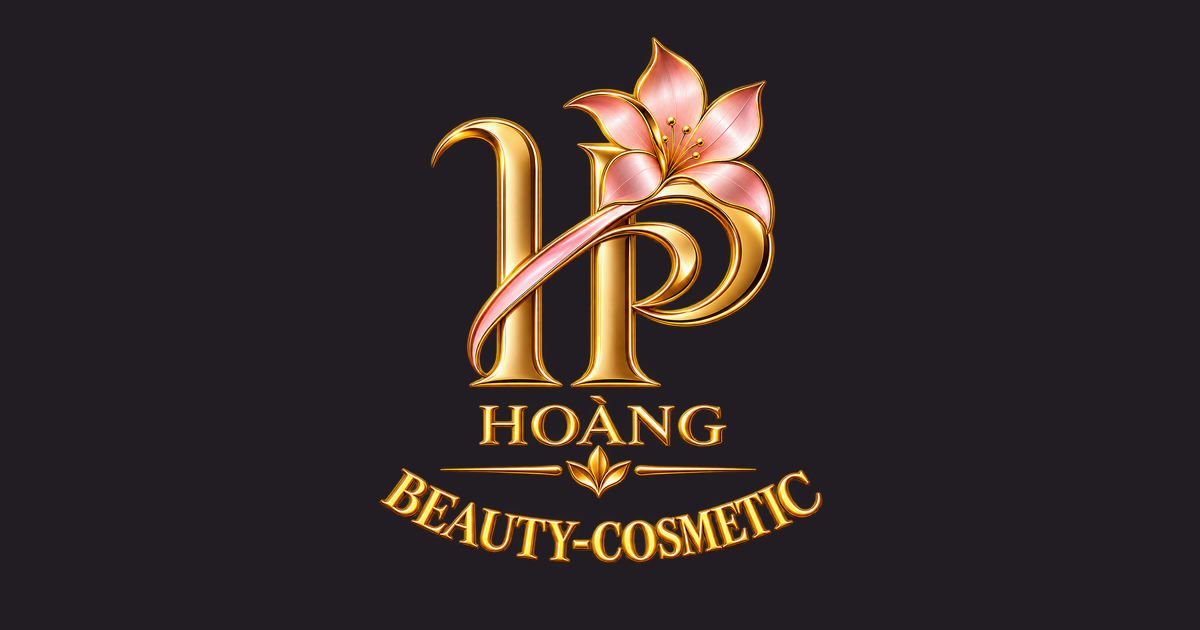
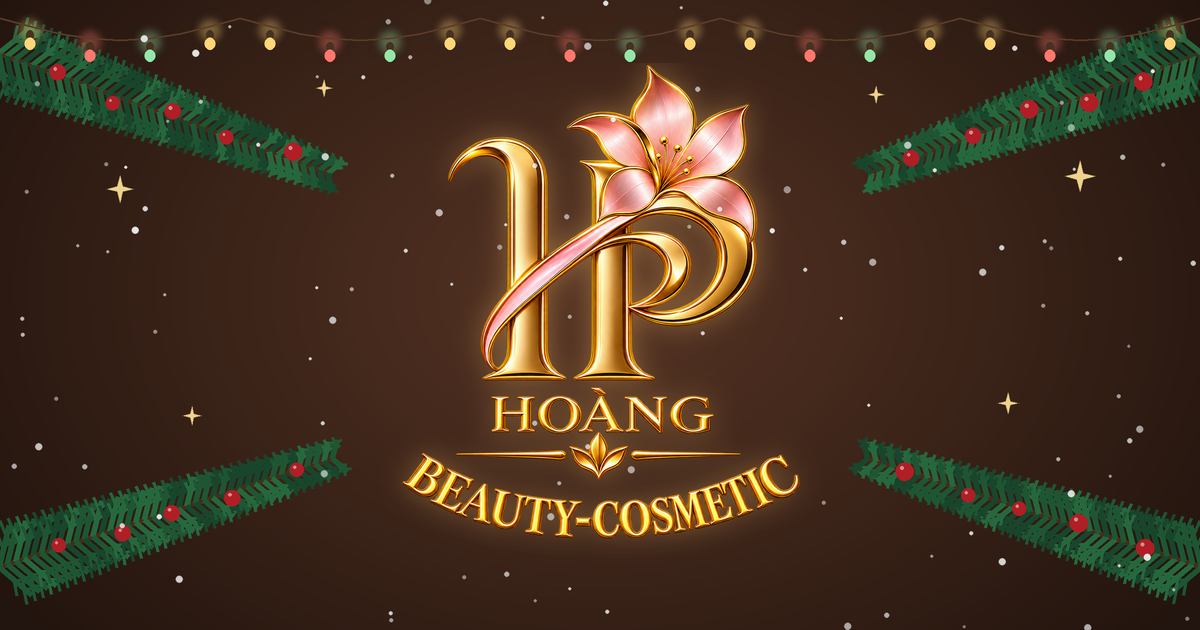
Share card: deep coffee background with Christmas decor

diff --git a/src/app/[locale]/layout.tsx b/src/app/[locale]/layout.tsx
@@ -47,13 +47,13 @@ export async function generateMetadata({ params }: { params: Promise<{ locale: s
       description: t.meta.description,
       siteName: "Beauty Cosmetic Hoàng",
       locale: locale === "en" ? "en_GB" : "de_DE",
-      images: [{ url: "https://beauty-cosmetic-hoang.de/og-image.png?v=3", width: 1200, height: 630, alt: "Beauty Cosmetic Hoàng" }],
+      images: [{ url: "https://beauty-cosmetic-hoang.de/og-image.png?v=4", width: 1200, height: 630, alt: "Beauty Cosmetic Hoàng" }],
     },
     twitter: {
       card: "summary_large_image",
       title: t.meta.title,
       description: t.meta.description,
-      images: ["https://beauty-cosmetic-hoang.de/og-image.png?v=3"],
+      images: ["https://beauty-cosmetic-hoang.de/og-image.png?v=4"],
     },
     icons: { icon: "/favicon.png?v=3", apple: "/apple-touch-icon.png?v=3" },
     robots: settings.publicLaunchEnabled ? undefined : { index: false, follow: false },

diff --git a/scripts/og-noel.py b/scripts/og-noel.py
@@ -1,0 +1,82 @@
+"""Share card (link preview) 1200x630: deep coffee background + Christmas decor around the logo."""
+import math, random
+from PIL import Image, ImageDraw, ImageFilter
+S=2; W,H=1200*S,630*S
+random.seed(7)
+# coffee radial gradient
+bg=Image.new("RGB",(W,H),(38,22,14)); px=bg.load()
+cx,cy=W/2,H*0.46
+for y in range(0,H):
+    for x in range(0,W,2):
+        d=min(1,math.hypot((x-cx)/(W*0.62),(y-cy)/(H*0.85)))
+        c=(int(86-52*d),int(52-32*d),int(36-22*d))
+        px[x,y]=c
+        if x+1<W: px[x+1,y]=c
+im=bg.convert("RGBA")
+def layer(): return Image.new("RGBA",(W,H),(0,0,0,0))
+# logo
+logo=Image.open("assets/brand/logo-full-new.png").convert("RGBA")
+lh=int(H*0.80); lw=int(logo.width*lh/logo.height); logo=logo.resize((lw,lh),Image.LANCZOS)
+glow=layer(); g=Image.new("RGBA",(lw,lh),(255,200,110,0)); 
+a=logo.split()[3].filter(ImageFilter.GaussianBlur(26)).point(lambda v:int(v*0.35)); g.putalpha(a)
+glow.paste(g,((W-lw)//2,int(H*0.10))); im=Image.alpha_composite(im,glow)
+im.alpha_composite(logo,((W-lw)//2,int(H*0.10)))
+# pine branch
+def branch(x0,y0,ang,length,flip):
+    L=layer(); d=ImageDraw.Draw(L)
+    ex=x0+math.cos(ang)*length; ey=y0+math.sin(ang)*length
+    d.line([x0,y0,ex,ey],fill=(70,44,24,255),width=int(5*S))
+    n=int(length/(9*S))
+    for i in range(n):
+        t=(i+1)/n; bx=x0+(ex-x0)*t; by=y0+(ey-y0)*t
+        ln=(1-t*0.55)*44*S
+        for sgn in(-1,1):
+            a2=ang+sgn*math.radians(58)
+            nx,ny=bx+math.cos(a2)*ln,by+math.sin(a2)*ln
+            col=random.choice([(30,86,52),(38,104,62),(24,70,44)])
+            d.line([bx,by,nx,ny],fill=col+(255,),width=int(5.5*S))
+            for k in(.45,.75):
+                mx,my=bx+(nx-bx)*k,by+(ny-by)*k
+                for s2 in(-1,1):
+                    a3=a2+s2*math.radians(38); l3=ln*.38
+                    d.line([mx,my,mx+math.cos(a3)*l3,my+math.sin(a3)*l3],fill=col+(255,),width=int(3*S))
+    # berries & baubles
+    for i in range(5):
+        t=.2+i*.17; bx=x0+(ex-x0)*t+random.uniform(-6,6)*S; by=y0+(ey-y0)*t+random.uniform(-8,8)*S
+        r=random.choice([7,8,9])*S
+        d.ellipse([bx-r,by-r,bx+r,by+r],fill=(176,30,38,255))
+        d.ellipse([bx-r*.5,by-r*.6,bx-r*.1,by-r*.2],fill=(255,170,170,200))
+    return L
+for (x0,y0,ang) in [(-10*S,50*S,math.radians(20)),(W+10*S,50*S,math.radians(160)),(-10*S,H-60*S,math.radians(-18)),(W+10*S,H-60*S,math.radians(198))]:
+    im=Image.alpha_composite(im,branch(x0,y0,ang,int(W*0.30),0))
+# fairy lights along the top
+L=layer(); d=ImageDraw.Draw(L)
+pts=[]
+for i in range(0,41):
+    x=W*i/40; y=18*S+math.sin(i/40*math.pi*4)*0+ (28*S)*math.sin(i/40*math.pi)*math.cos(i*1.0)*0 + 22*S*abs(math.sin(i/40*math.pi*5))
+    pts.append((x,y))
+d.line(pts,fill=(90,60,40,255),width=int(2*S))
+cols=[(255,214,120),(255,120,110),(150,230,170),(255,214,120)]
+gl=layer(); gd=ImageDraw.Draw(gl)
+for i,(x,y) in enumerate(pts[1:-1:2]):
+    c=cols[i%4]; r=6*S
+    gd.ellipse([x-r*2.4,y+4*S-r*2.4,x+r*2.4,y+4*S+r*2.4],fill=c+(90,))
+    d.ellipse([x-r*.6,y+4*S,x+r*.6,y+4*S+r*1.6],fill=(70,50,30,255))
+    d.ellipse([x-r*.9,y+4*S+r*1.2,x+r*.9,y+4*S+r*3.2],fill=c+(255,))
+gl=gl.filter(ImageFilter.GaussianBlur(10)); im=Image.alpha_composite(im,gl); im=Image.alpha_composite(im,L)
+# stars + snow
+def star(d,x,y,r,col):
+    pts=[]
+    for k in range(8):
+        rr=r if k%2==0 else r*.28; a=math.pi/4*k-math.pi/2
+        pts.append((x+math.cos(a)*rr,y+math.sin(a)*rr))
+    d.polygon(pts,fill=col)
+L=layer(); d=ImageDraw.Draw(L)
+for x,y,r in [(0.10,0.30,14),(0.90,0.28,16),(0.16,0.66,10),(0.84,0.64,11),(0.27,0.14,9),(0.73,0.15,9)]:
+    star(d,W*x,H*y,r*S,(255,226,150,235))
+for _ in range(110):
+    x,y=random.uniform(0,W),random.uniform(0,H); r=random.choice([1.5,2,2.5,3.5])*S
+    d.ellipse([x-r,y-r,x+r,y+r],fill=(255,255,255,random.randint(110,225)))
+im=Image.alpha_composite(im,L.filter(ImageFilter.GaussianBlur(.6)))
+im=im.convert("RGB").resize((1200,630),Image.LANCZOS)
+im.save("public/og-image.png",optimize=True)
